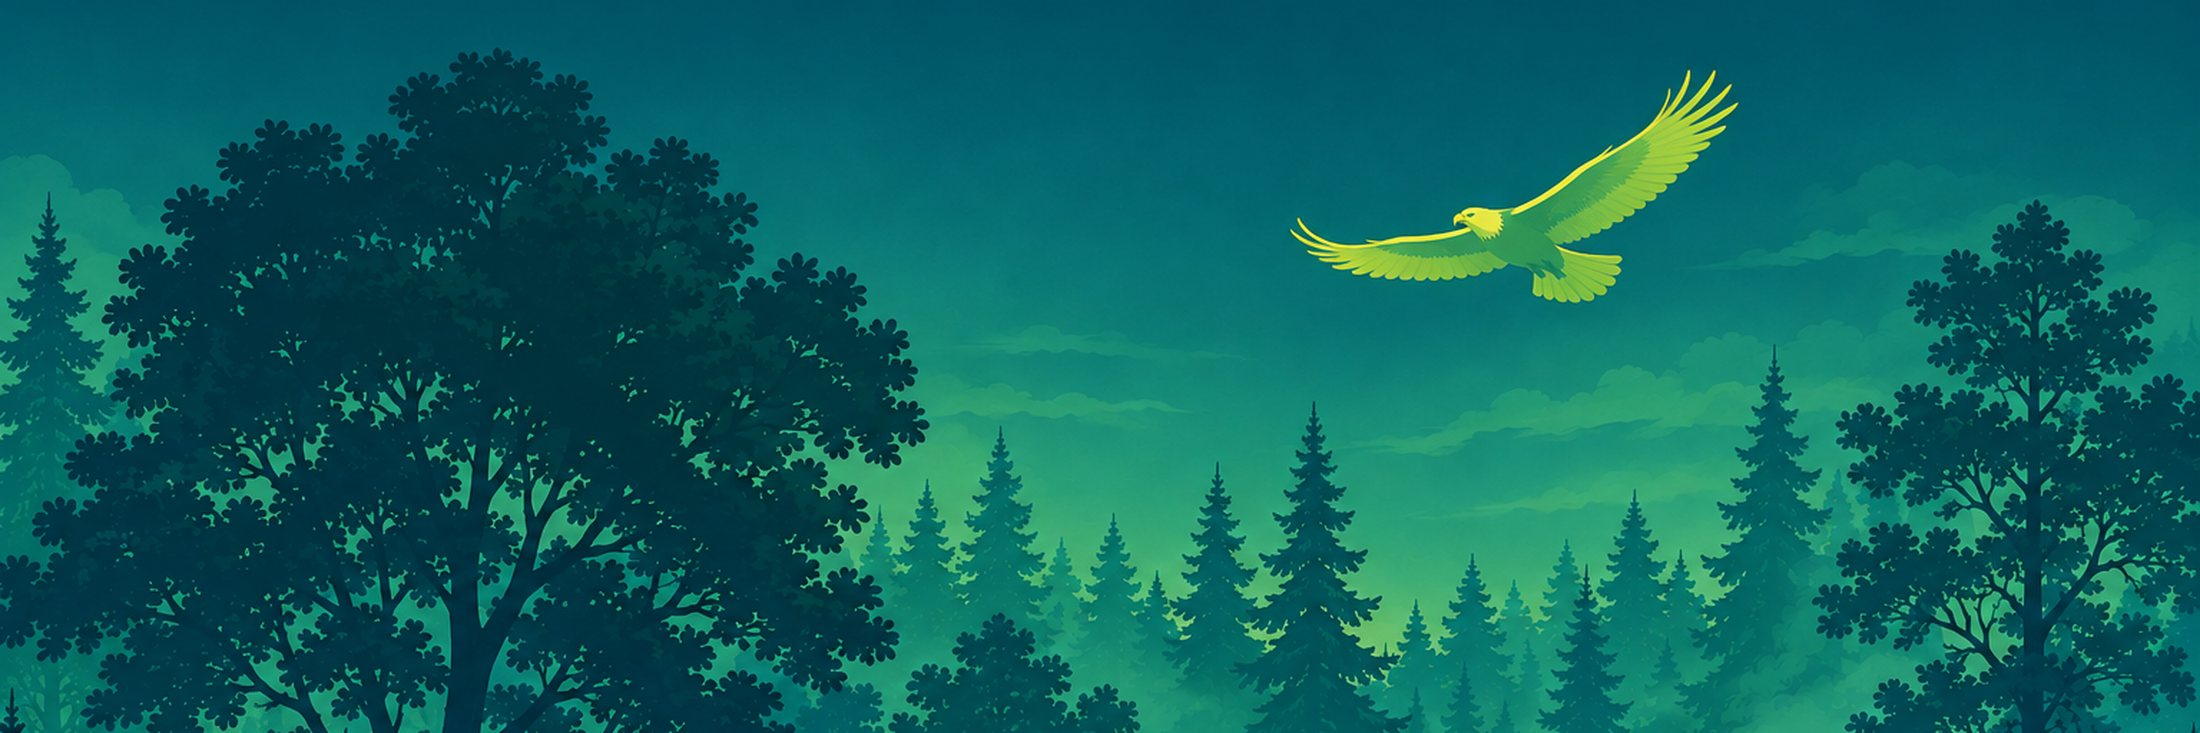
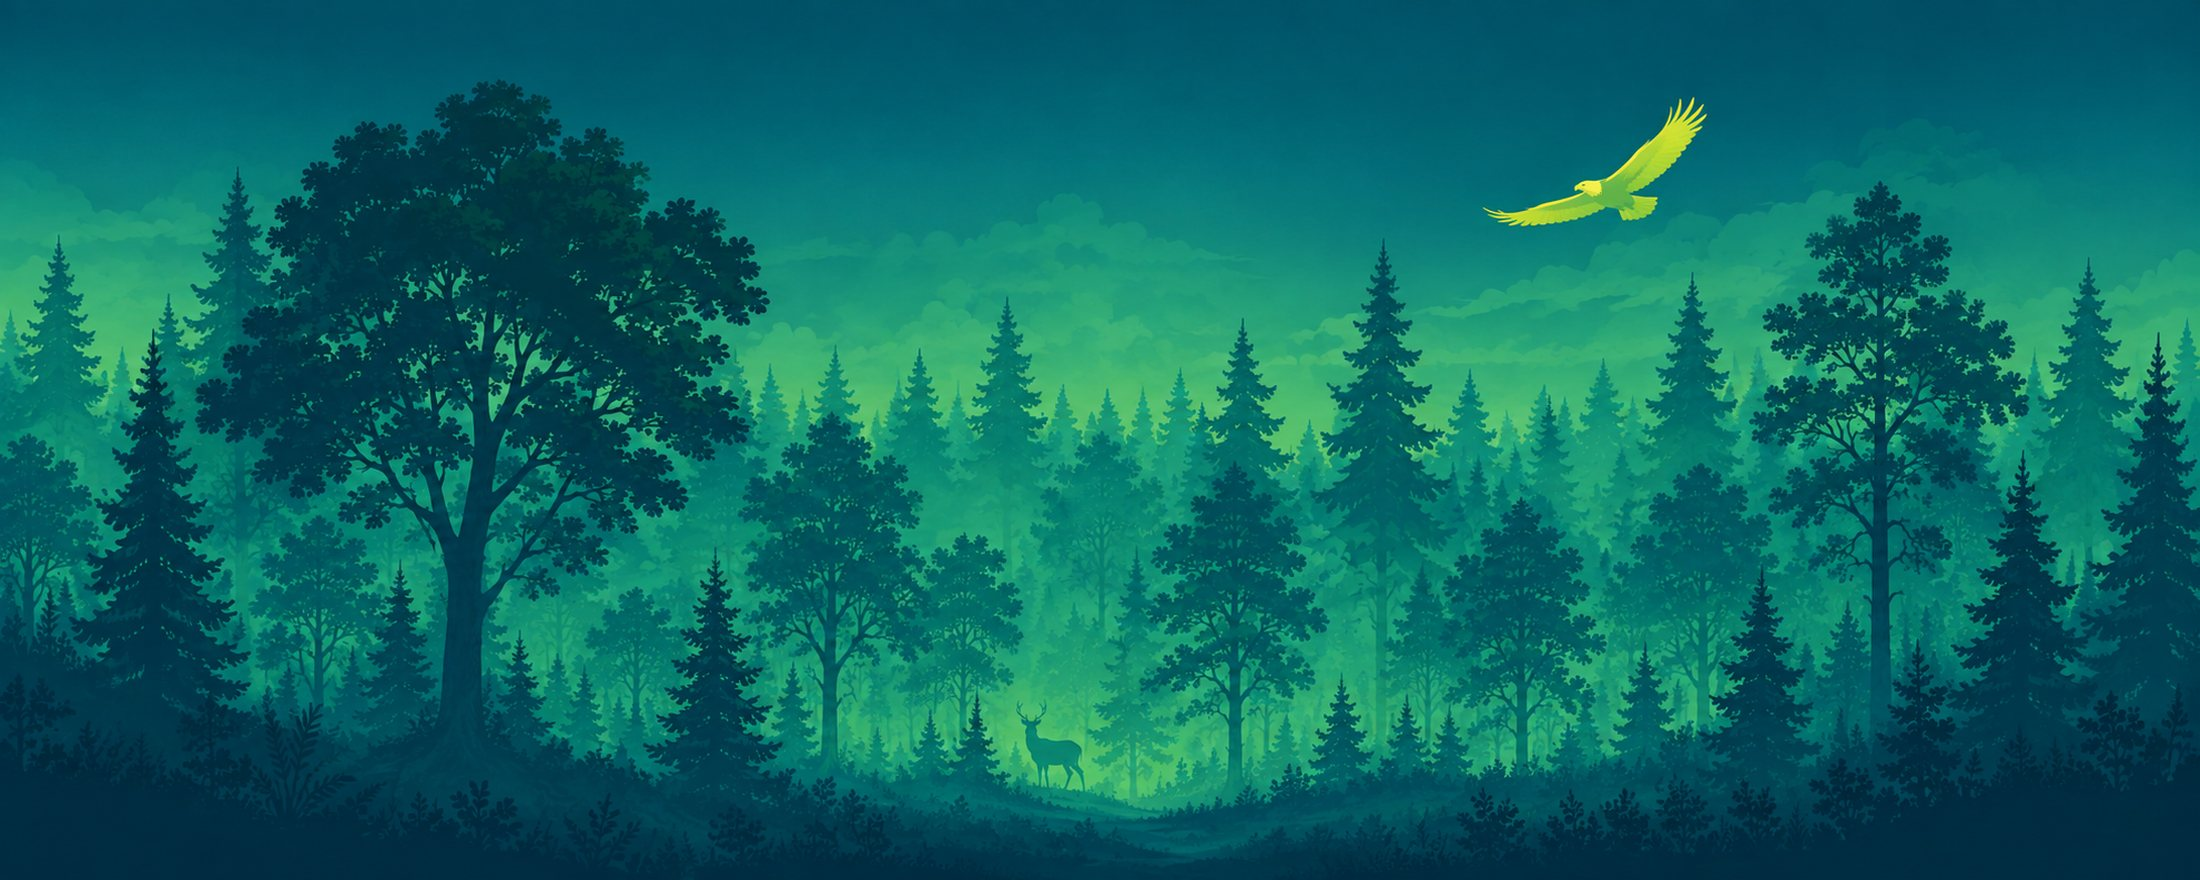
Neues Hero-Bild — Adler und Hirsch passen jetzt beide ins Band
Deine zweite Fassung ist 2,50:1 statt 3:2. Damit löst sich der Konflikt
von vorhin: bei einem Band von 2,8:1 bleiben 89 % der Bildhöhe stehen,
und darin liegen der Adler (y 0,11–0,26) und der Hirsch (y 0,70–0,95)
beide vollständig. Der Ausschnitt auf den Adler entfällt, hero-full.jpg
wird nicht mehr gebraucht.

Der Verlauf über dem Bild ist jetzt nach links gewichtet statt flächig
nach unten. Vorher verschluckte er den Hirsch, der genau in der unteren
Bildmitte steht; die Überschrift steht aber links. Weiße Schrift kommt
dort weiterhin auf 7,6:1.

Der Ursprung der Ken-Burns-Fahrt liegt zwischen Adler und Lichtung,
damit beim Heranfahren keines von beidem aus dem Bild wandert.

diff --git a/public/dashboard.css b/public/dashboard.css
@@ -112,8 +112,8 @@ body {
    periodisch durchläuft; senkrecht zerstört es die Komposition. */
 .band {
   position: relative;
-  aspect-ratio: 3 / 1;
-  max-height: 420px;
+  aspect-ratio: 2.8 / 1;
+  max-height: 460px;
   border-radius: 14px;
   overflow: hidden;
   background: var(--night);
@@ -133,7 +133,7 @@ body {
   width: 100%;
   height: 100%;
   object-fit: cover;
-  transform-origin: 58% 30%;   /* der Adler bleibt beim Zoomen im Bild */
+  transform-origin: 62% 34%;   /* zwischen Adler und Lichtung, so bleiben beide im Bild */
   animation: kenburns 44s ease-in-out infinite alternate;
 }
 @keyframes kenburns {
@@ -166,7 +166,11 @@ body {
   justify-content: flex-end;
   padding: clamp(14px, 2.4vw, 26px);
   color: #fff;
-  background: linear-gradient(0deg, rgba(4, 20, 28, 0.86) 0%, rgba(4, 20, 28, 0.20) 48%, rgba(4, 20, 28, 0) 74%);
+  /* Nach links gewichtet statt flächig nach unten: die Schrift steht links,
+     der Hirsch in der Mitte. Ein durchgehender Bodenverlauf hat ihn verschluckt. */
+  background:
+    linear-gradient(90deg, rgba(4, 20, 28, 0.88) 0%, rgba(4, 20, 28, 0.42) 24%, rgba(4, 20, 28, 0) 46%),
+    linear-gradient(0deg, rgba(4, 20, 28, 0.52) 0%, rgba(4, 20, 28, 0.08) 32%, rgba(4, 20, 28, 0) 58%);
 }
 .band-copy h1 {
   margin: 0;
